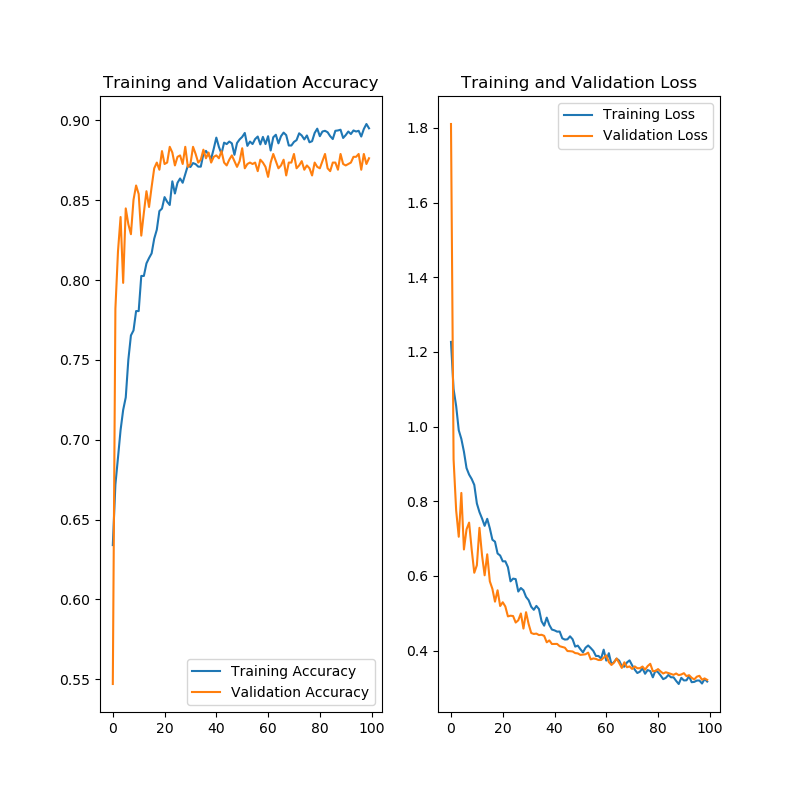
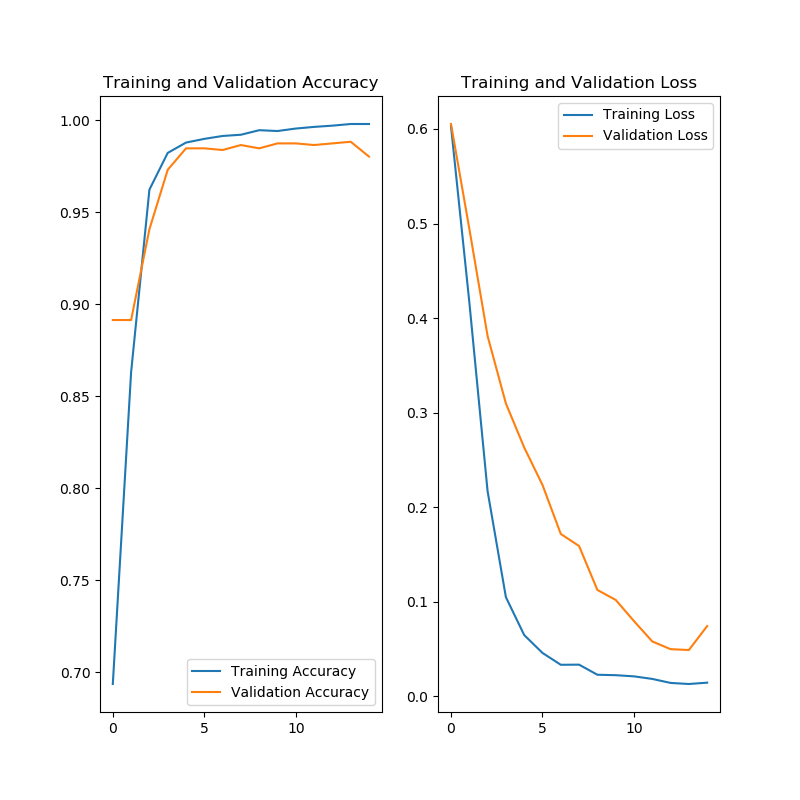
Spam SMS metrics

diff --git a/sms/spam_detector.py b/sms/spam_detector.py
@@ -7,12 +7,33 @@ from keras.engine.saving import load_model
 from keras.layers import *
 from mlxtend.plotting import plot_confusion_matrix
 from sklearn.metrics import confusion_matrix, multilabel_confusion_matrix
+import keras.backend as K
 
 NUMBER_OF_CLASSES = 2
 MAXLEN = 171
 BATCH_SIZE = 100
-EPOCHS = 100
+EPOCHS = 15
 
+
+
+def recall_m(y_true, y_pred):
+    true_positives = K.sum(K.round(K.clip(y_true * y_pred, 0, 1)))
+    possible_positives = K.sum(K.round(K.clip(y_true, 0, 1)))
+    recall = true_positives / (possible_positives + K.epsilon())
+    return recall
+
+
+def precision_m(y_true, y_pred):
+    true_positives = K.sum(K.round(K.clip(y_true * y_pred, 0, 1)))
+    predicted_positives = K.sum(K.round(K.clip(y_pred, 0, 1)))
+    precision = true_positives / (predicted_positives + K.epsilon())
+    return precision
+
+
+def f1_m(y_true, y_pred):
+    precision = precision_m(y_true, y_pred)
+    recall = recall_m(y_true, y_pred)
+    return 2 * ((precision * recall) / (precision + recall + K.epsilon()))
 
 def train():
     X = np.load('dataset/processed/x.npy')
@@ -40,15 +61,22 @@ def train():
         Dropout(dropout_rate),
 
         Dense(2, activation='softmax')
-
     ]
 
-    model = keras.Sequential(model_scheme)
+    model_LSTM = [
+        Embedding(1000, 50, input_length=MAXLEN),
+        LSTM(64),
+        Dense(512, activation='relu'),
+        BatchNormalization(),
+        Dense(2, activation='softmax')
+    ]
+
+    model = keras.Sequential(model_LSTM)
 
     model.compile(
         optimizer=optimizers.Adam(lr=0.0001),
         loss="categorical_crossentropy",
-        metrics=['accuracy'],
+        metrics=['accuracy', f1_m, precision_m, recall_m, tf.keras.metrics.AUC()],
     )
     model.summary()
 
@@ -104,7 +132,7 @@ def plot(model):
 
 if __name__ == '__main__':
     model = train()
-    model.save('../streamlit_web/models/sms.h5')
-    model = load_model("../streamlit_web/models/sms.h5",
-                       custom_objects={"softmax_v2": tf.nn.softmax})
-    plot(model)
+    # model.save('../streamlit_web/models/sms.h5')
+    # model = load_model("../streamlit_web/models/sms.h5",
+    #                    custom_objects={"softmax_v2": tf.nn.softmax})
+    # plot(model)

diff --git a/malware/statistics_malware.py b/malware/statistics_malware.py
@@ -13,10 +13,11 @@ from sklearn.metrics import confusion_matrix
 
 csv_path = os.path.join('Dataset/dataset.csv')
 
-path_model_malware = os.path.join("results/malware_all.h5")
+# path_model_malware = os.path.join("results/malware_all.h5")
+path_model_malware = os.path.join("malware.h5")
 model = tf.keras.models.load_model(path_model_malware, compile=False)
 
-plot_model(model, to_file='model.png', show_shapes=True)
+# plot_model(model, to_file='model.png', show_shapes=True)
 
 labels = []
 data = []
